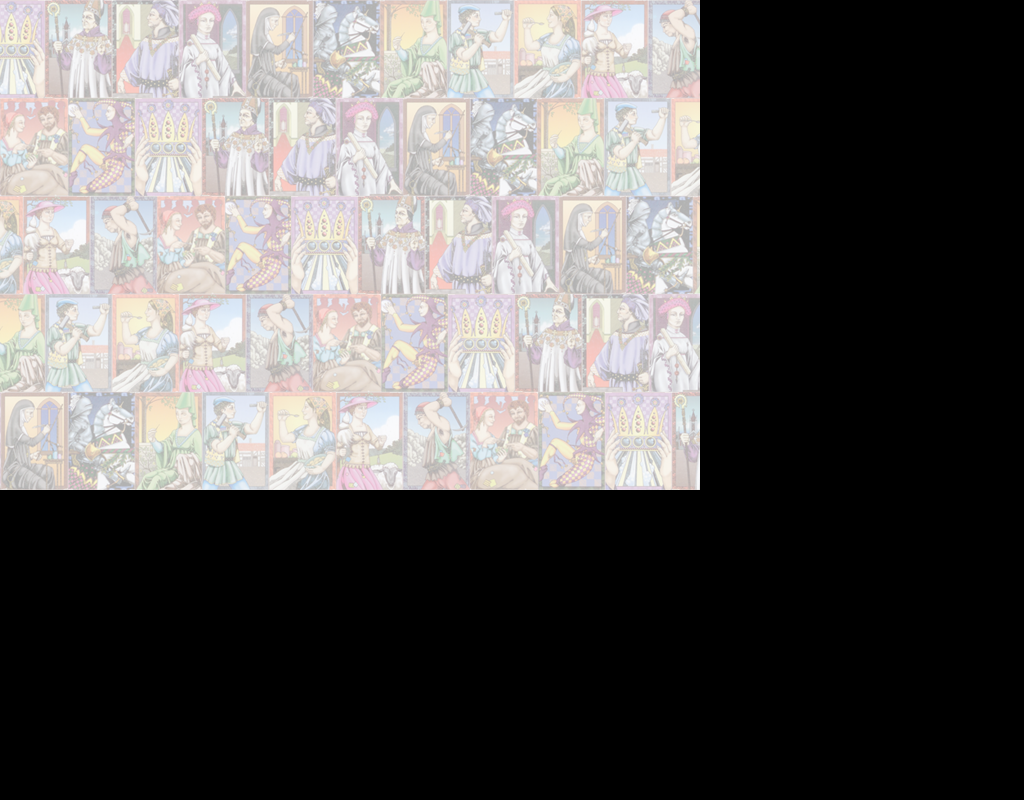
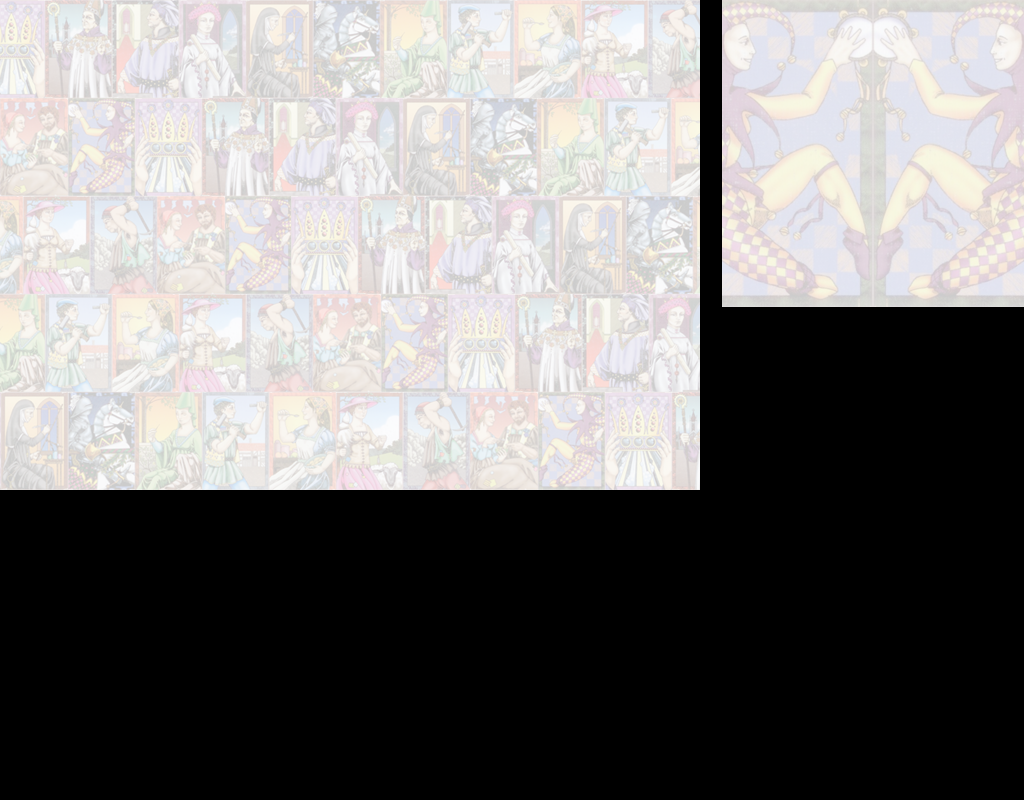
background updates

diff --git a/src/dalmuti/client/Playtable.java b/src/dalmuti/client/Playtable.java
@@ -94,7 +94,7 @@ public class Playtable extends JFrame implements ActionListener, MouseListener{
 	//GUI-Globals panelEast
 	private JPanel panelEast;
 		
-	//GUI-Globals panelEastNorth
+	//GUI-Globals panelEastNorth - Scoreboard
 	private JPanel panelEastNorth;
 	private JLabel lbScoreTitel;
 	private JLabel lbScore1;
@@ -102,14 +102,14 @@ public class Playtable extends JFrame implements ActionListener, MouseListener{
 	private JLabel lbScore3;
 	private JLabel lbScore4;
 		
-	//GUI-Globals panelEastCenter
+	//GUI-Globals panelEastCenter - Buttons
 	private JPanel panelEastCenter;
 	private JButton btLegen;
 	private JButton btPassen;
 		
-	//GUI-Globals panelEastSouth
+	//GUI-Globals panelEastSouth - UniqueImage
 	private JPanel panelEastSouth;
-	private JTextArea taChat;
+	private JLabel lbUniqueImage;
 		
 /*
 	//only for testing purpose
@@ -194,7 +194,7 @@ public class Playtable extends JFrame implements ActionListener, MouseListener{
 		
 		
 		//panelWestNorth - player top
-		panelWestNorth = new JPanel(new GridBagLayout());
+		panelWestNorth = new JPanel(new GridLayout());
 		panelWestNorth.setOpaque(false);
 //		panelWestNorth.setBorder(BorderFactory.createLineBorder(Color.black));
 		panelWestNorth.setPreferredSize(new Dimension(700,50));//width, height
@@ -202,17 +202,17 @@ public class Playtable extends JFrame implements ActionListener, MouseListener{
 		
 		//Components in panelWestNorth
 		GridBagConstraints gbcPanelWestNorth = new GridBagConstraints();//Use GridBagConstraints to place the components
-		gbcPanelWestNorth.insets = new Insets(10, 0, 10, 0);//top, left, bottom, right
+		gbcPanelWestNorth.insets = new Insets(0, 0, 0, 0);//top, left, bottom, right
 				
 		lbCardsLeftNorth = new JLabel("");
-		lbCardsLeftNorth.setFont(new Font("", Font.BOLD, 20));
+		lbCardsLeftNorth.setFont(new Font("", Font.PLAIN, 18));
 		panelWestNorth.add(lbCardsLeftNorth, gbcPanelWestNorth);
 		
 		
 		
 		
 		//panelWestWest - player left
-		panelWestWest = new JPanel(new GridBagLayout());
+		panelWestWest = new JPanel(new GridLayout());
 		panelWestWest.setOpaque(false);
 //		panelWestWest.setBorder(BorderFactory.createLineBorder(Color.black));
 		panelWestWest.setPreferredSize(new Dimension(192,430));//width, height
@@ -220,10 +220,10 @@ public class Playtable extends JFrame implements ActionListener, MouseListener{
 		
 		//Components in panelWestWest
 		GridBagConstraints gbcPanelWestWest = new GridBagConstraints();//Use GridBagConstraints to place the components
-		gbcPanelWestWest.insets = new Insets(0, 10, 0, 10);//top, left, bottom, right
+		gbcPanelWestWest.insets = new Insets(0, 0, 0, 0);//top, left, bottom, right
 				
 		lbCardsLeftWest = new JLabel("");
-		lbCardsLeftWest.setFont(new Font("", Font.BOLD, 20));
+		lbCardsLeftWest.setFont(new Font("", Font.PLAIN, 18));
 		panelWestWest.add(lbCardsLeftWest, gbcPanelWestWest);
 		
 		
@@ -255,7 +255,7 @@ public class Playtable extends JFrame implements ActionListener, MouseListener{
 		
 		
 		//panelWestEast - player right
-		panelWestEast = new JPanel(new GridBagLayout());
+		panelWestEast = new JPanel(new GridLayout());
 		panelWestEast.setOpaque(false);
 //		panelWestEast.setBorder(BorderFactory.createLineBorder(Color.black));
 		panelWestEast.setPreferredSize(new Dimension(192,430));//width, height
@@ -263,10 +263,10 @@ public class Playtable extends JFrame implements ActionListener, MouseListener{
 		
 		//Components in panelWestEast
 		GridBagConstraints gbcPanelWestEast = new GridBagConstraints();//Use GridBagConstraints to place the components
-		gbcPanelWestEast.insets = new Insets(0, 10, 0, 10);//top, left, bottom, right
+		gbcPanelWestEast.insets = new Insets(0, 0, 0, 0);//top, left, bottom, right
 				
 		lbCardsLeftEast = new JLabel("");
-		lbCardsLeftEast.setFont(new Font("", Font.BOLD, 20));
+		lbCardsLeftEast.setFont(new Font("", Font.PLAIN, 18));
 		panelWestEast.add(lbCardsLeftEast, gbcPanelWestEast);
 		
 		
@@ -596,31 +596,26 @@ public class Playtable extends JFrame implements ActionListener, MouseListener{
 		
 		lbScoreTitel = new JLabel("Scoreboard", SwingConstants.CENTER);
 		lbScoreTitel.setFont(new Font("", Font.BOLD, 22));
-		lbScoreTitel.setForeground(Color.white);
 		gbcPanelEastNorth.gridy = 0;
 		panelEastNorth.add(lbScoreTitel, gbcPanelEastNorth);
 		
 		lbScore1 = new JLabel("1. ");
 		lbScore1.setFont(new Font("", Font.PLAIN, 18));
-		lbScore1.setForeground(Color.white);
 		gbcPanelEastNorth.gridy = 1;
 		panelEastNorth.add(lbScore1, gbcPanelEastNorth);
 		
 		lbScore2 = new JLabel("2. ");
 		lbScore2.setFont(new Font("", Font.PLAIN, 18));
-		lbScore2.setForeground(Color.white);
 		gbcPanelEastNorth.gridy = 2;
 		panelEastNorth.add(lbScore2, gbcPanelEastNorth);
 		
 		lbScore3 = new JLabel("3. ");
 		lbScore3.setFont(new Font("", Font.PLAIN, 18));
-		lbScore3.setForeground(Color.white);
 		gbcPanelEastNorth.gridy = 3;
 		panelEastNorth.add(lbScore3, gbcPanelEastNorth);
 		
 		lbScore4 = new JLabel("4. ");
 		lbScore4.setFont(new Font("", Font.PLAIN, 18));
-		lbScore4.setForeground(Color.white);
 		gbcPanelEastNorth.gridy = 4;
 		panelEastNorth.add(lbScore4, gbcPanelEastNorth);
 		
@@ -683,9 +678,8 @@ public class Playtable extends JFrame implements ActionListener, MouseListener{
 		GridBagConstraints gbcPanelEastSouth = new GridBagConstraints();//Use GridBagConstraints to place the components
 		gbcPanelEastSouth.insets = new Insets(0,0,0,0);//top, left, bottom, right
 		
-		taChat = new JTextArea();
-		taChat.setEditable(false);
-		panelEastSouth.add(taChat, gbcPanelEastSouth);
+		lbUniqueImage = new JLabel("");
+		panelEastSouth.add(lbUniqueImage, gbcPanelEastSouth);
 		
 		setVisible(true);
 	}
@@ -879,13 +873,13 @@ public class Playtable extends JFrame implements ActionListener, MouseListener{
 		}if(Client.mo.playedcards[0] == 0){
 			Login.playtable.lbCardsPlayed.setIcon(new ImageIcon(getClass().getResource("/dalmuti/image/backbig.png")));
 		}
-		lbAmountCardsPlayed.setText("<html><body style='width:250px'> Diese Karte wurde " + Client.mo.playedcards[1] + " Mal gespielt");
+		lbAmountCardsPlayed.setText("<html><body style='width:250px'> Diese Karte wurde " + Client.mo.playedcards[1] + " Mal gespielt.");
 		Login.playtable.setTitle("Der Grosse Dalmuti - Spieltisch von " + Client.mo.users.get(myRank).getNickname());
 		
 	}
 	public void cardsleft(){
 		lbCardsLeftWest.setText("<html><body style='width:160px'> " + rank(westplayer) + Client.mo.users.get(westplayer).getNickname() + "<br />" + "hat noch " + Client.mo.users.get(westplayer).getAmount() + " Karten");
-		lbCardsLeftNorth.setText("<html><body style='width:250px' " + rank(northplayer) + Client.mo.users.get(northplayer).getNickname() + " hat noch " + Client.mo.users.get(northplayer).getAmount() + " Karten");
+		lbCardsLeftNorth.setText(rank(northplayer) + Client.mo.users.get(northplayer).getNickname() + " hat noch " + Client.mo.users.get(northplayer).getAmount() + " Karten");
 		lbCardsLeftEast.setText("<html><body style='width:160px'> " + rank(eastplayer) + Client.mo.users.get(eastplayer).getNickname() + "<br />" + "hat noch " + Client.mo.users.get(eastplayer).getAmount() + " Karten");
 		Login.playtable.lbActiveUser.setText("Du bist nicht am Zug!");
 		Login.playtable.lbActiveUser.setBounds(70, 80, 800, 200);

diff --git a/src/dalmuti/client/Login.java b/src/dalmuti/client/Login.java
@@ -99,7 +99,7 @@ public class Login extends JFrame implements ActionListener{
 		//set Background Image
 		getContentPane().setLayout(new BorderLayout());
 		((JPanel)getContentPane()).setOpaque(false);
-		ImageIcon background = new ImageIcon(getClass().getResource("/dalmuti/image/background.png"));
+		ImageIcon background = new ImageIcon(getClass().getResource("/dalmuti/image/loginbackground.png"));
 		lbBackground = new JLabel(background);
 		getLayeredPane().add(lbBackground, new Integer(Integer.MIN_VALUE));
 		lbBackground.setBounds(0, 0, background.getIconWidth(), background.getIconHeight());
@@ -134,7 +134,7 @@ public class Login extends JFrame implements ActionListener{
 		GridBagConstraints gbcPanelCenter = new GridBagConstraints();//Use GridBagConstraints to place the components
 		gbcPanelCenter.insets = new Insets(10, 0, 10, 0);// top, left, bottom, right
 
-		lbEnterNickname = new JLabel("Gib hier deinen Nickname ein. (max. 16 Zeichen)");
+		lbEnterNickname = new JLabel("Gib hier deinen Nickname ein. (max. 12 Zeichen)");
 		lbEnterNickname.setFont(new Font("", Font.BOLD, 20));
 		gbcPanelCenter.gridy = 0;
 		panelCenter.add(lbEnterNickname);
@@ -239,30 +239,30 @@ public class Login extends JFrame implements ActionListener{
 		Object src = e.getSource();
 		if(src == btLogin){
 			try{
-				if(tfEnterNickname.getText().length() <= 16){
+				if(tfEnterNickname.getText().length() <= 12){
 				User Loginuser = new User(tfEnterNickname.getText());
 				this.out.writeObject(Loginuser);
 				tfEnterNickname.setText("");
 				setVisible(false);
 				playtable = new Playtable(this.out, this.in);
 				}else{
-					JOptionPane.showMessageDialog(null, "Nickname darf nicht mehr als 16 Zeichen haben!", "Dein Nickname ist zu lang!", JOptionPane.PLAIN_MESSAGE);
 					tfEnterNickname.setText("");
+					JOptionPane.showMessageDialog(null, "Nickname darf nicht mehr als 12 Zeichen haben!", "Dein Nickname ist zu lang!", JOptionPane.PLAIN_MESSAGE);
 				}
 			}catch (java.io.IOException IOException){
 				IOException.printStackTrace();
 			}
 		}else if(src == tfEnterNickname){
 			try{
-				if(tfEnterNickname.getText().length() <= 16){
+				if(tfEnterNickname.getText().length() <= 12){
 				User Loginuser = new User(tfEnterNickname.getText());
 				this.out.writeObject(Loginuser);
 				tfEnterNickname.setText("");
 				setVisible(false);
 				playtable = new Playtable(this.out, this.in);
 				}else{
-					JOptionPane.showMessageDialog(null, "Nickname darf nicht mehr als 16 Zeichen haben!", "Dein Nickname ist zu lang!", JOptionPane.PLAIN_MESSAGE);
 					tfEnterNickname.setText("");
+					JOptionPane.showMessageDialog(null, "Nickname darf nicht mehr als 12 Zeichen haben!", "Dein Nickname ist zu lang!", JOptionPane.PLAIN_MESSAGE);
 				}
 			}catch (java.io.IOException IOException){
 				IOException.printStackTrace();

diff --git a/src/dalmuti/client/Swap.java b/src/dalmuti/client/Swap.java
@@ -86,7 +86,7 @@ public class Swap extends JFrame implements ActionListener{
 		//set Background Image
 		getContentPane().setLayout(new BorderLayout());
 		((JPanel)getContentPane()).setOpaque(false);
-		ImageIcon background = new ImageIcon(getClass().getResource("/dalmuti/image/narrbackground.png"));
+		ImageIcon background = new ImageIcon(getClass().getResource("/dalmuti/image/swapbackground.png"));
 		lbBackground = new JLabel(background);
 		getLayeredPane().add(lbBackground, new Integer(Integer.MIN_VALUE));
 		lbBackground.setBounds(0, 0, background.getIconWidth(), background.getIconHeight());
